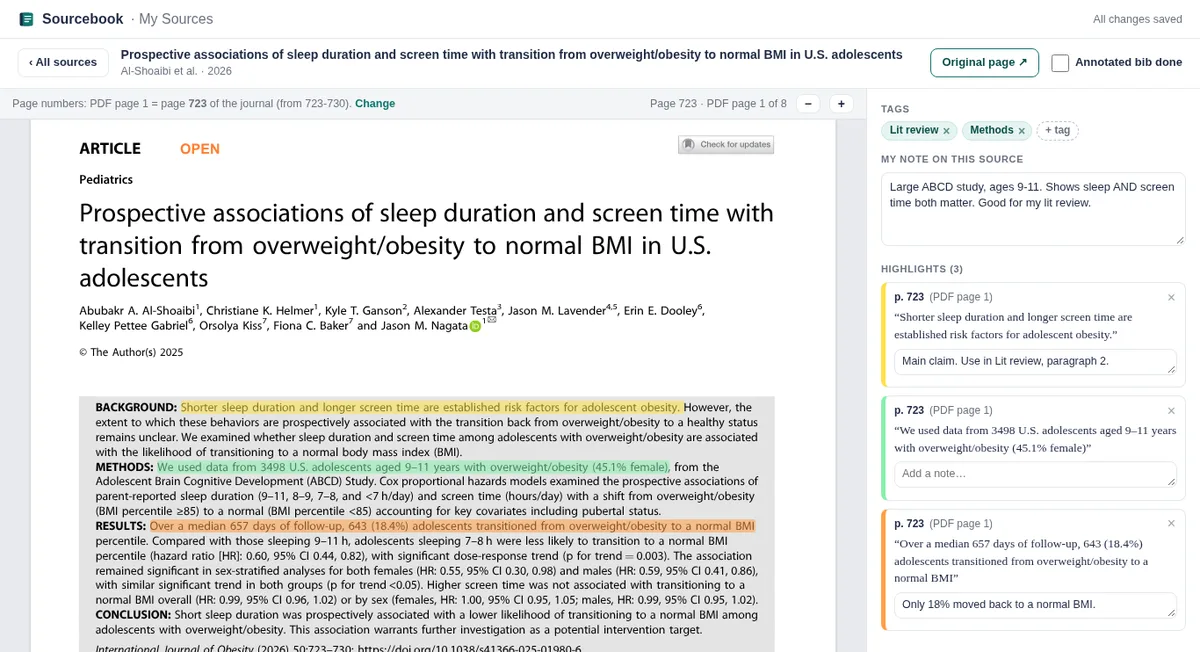
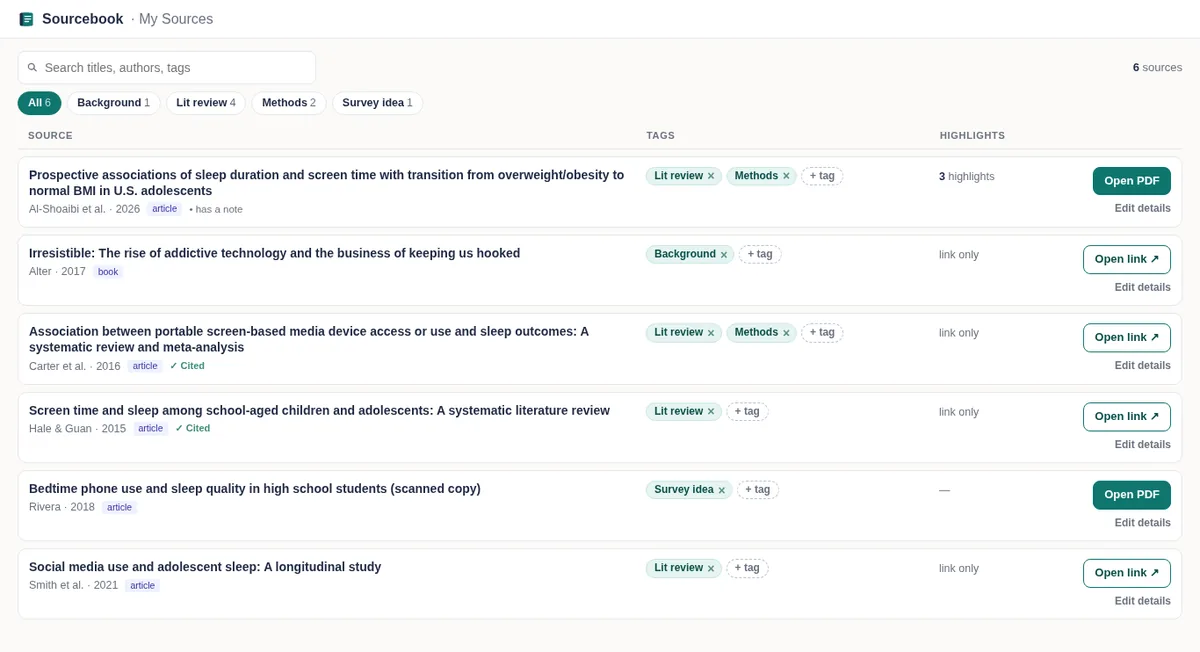
Screenshots: generic sample student names; My Sources without the removed check-off column

diff --git a/index.html b/index.html
@@ -110,7 +110,7 @@
       <article class="duo-card" id="read-annotate" aria-labelledby="ra-title">
         <div class="window duo-shot">
           <div class="window-bar"><i></i><i></i><i></i><span>Sourcebook · My Sources</span></div>
-          <img src="/assets/img/my-sources.webp" width="1200" height="652" loading="lazy" alt="My Sources page: a saved source open for reading, with highlights and a notes panel. Sample data.">
+          <img src="/assets/img/my-sources.webp" width="1200" height="652" loading="lazy" alt="My Sources page listing saved sources with their tags, highlights and buttons to open each one. Sample data.">
         </div>
         <div class="duo-body">
           <span class="tag">For students</span>
